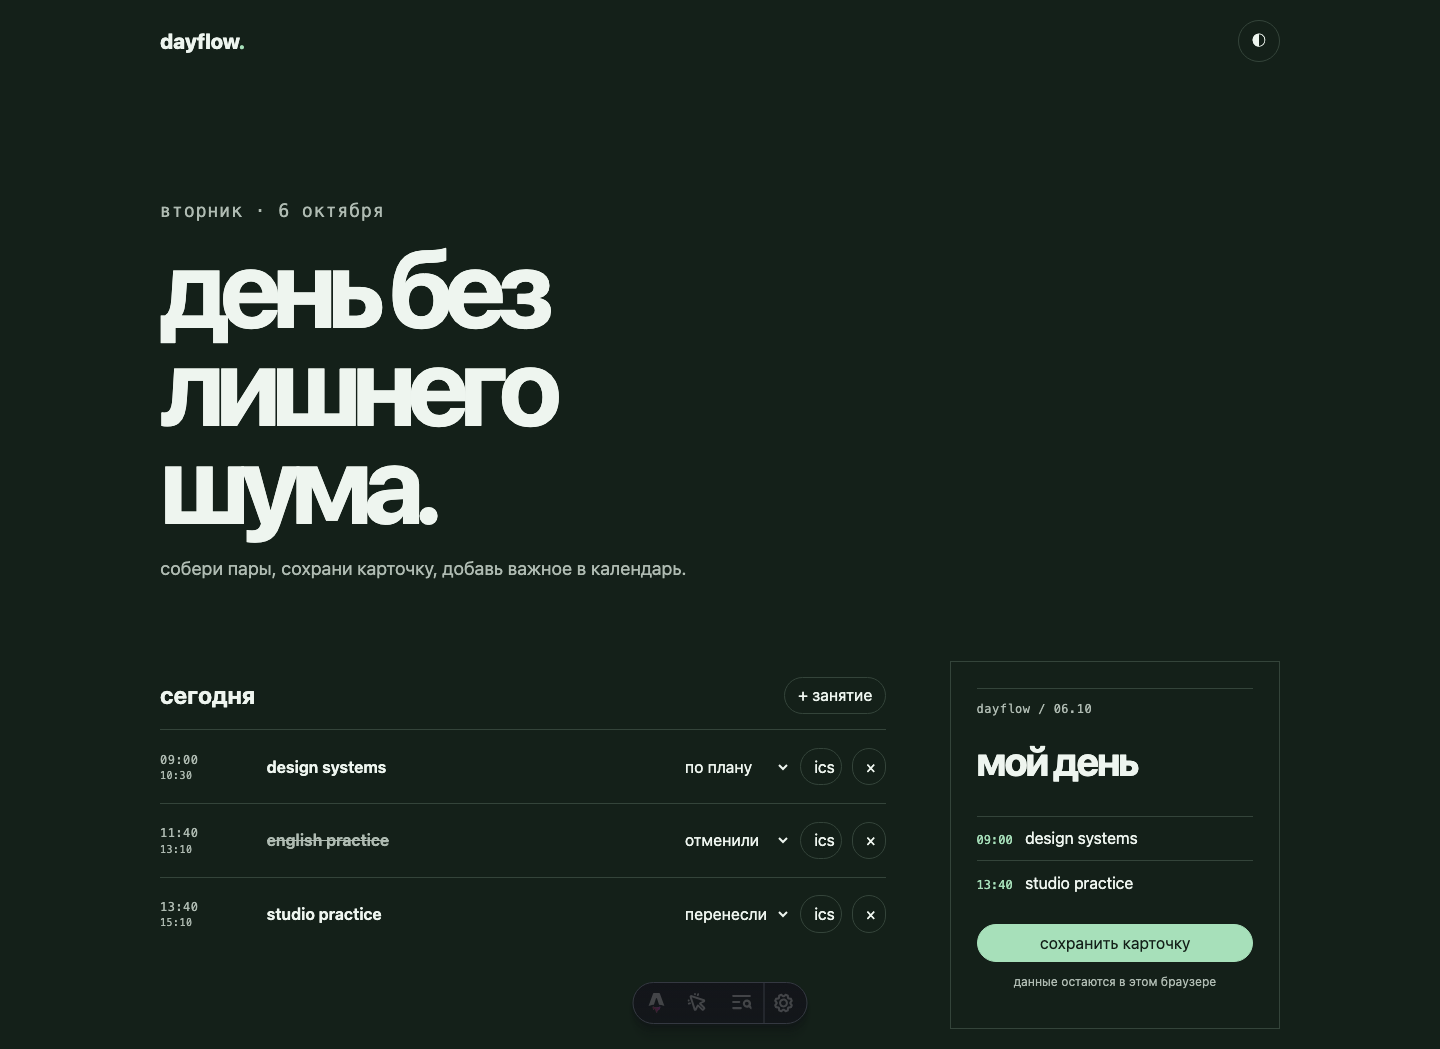
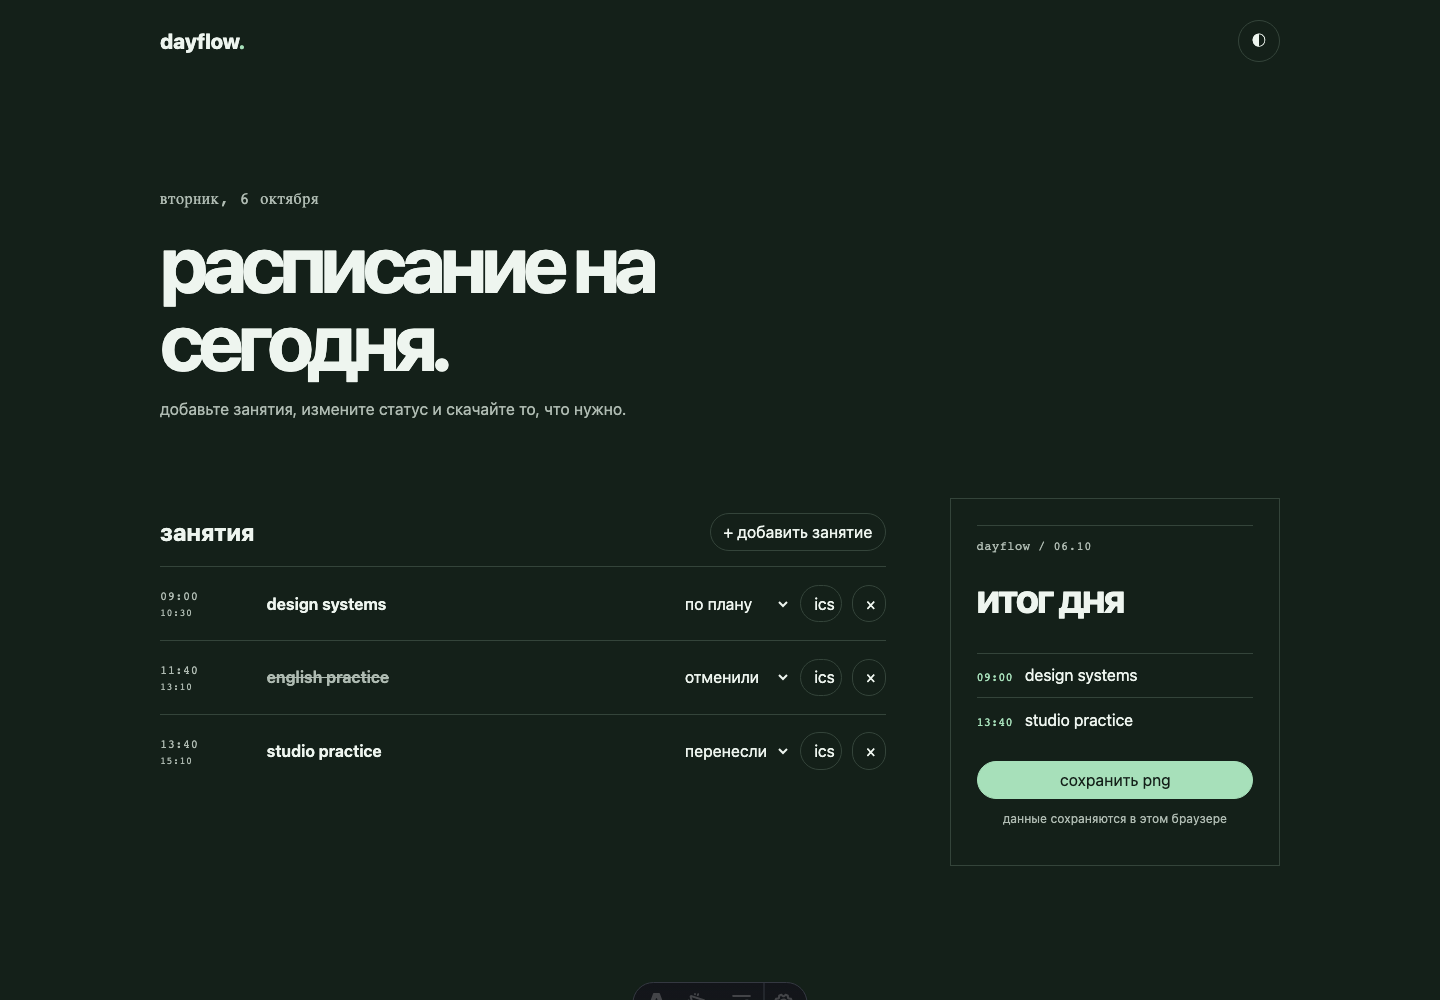
refine dayflow copy and visual hierarchy

diff --git a/src/styles/global.css b/src/styles/global.css
@@ -1,1 +1,1 @@
-:root{--bg:#f5f5f0;--ink:#17221e;--muted:#65716b;--line:#d4dbd5;--accent:#157a52;font-family:ui-sans-serif,system-ui,sans-serif}.dark{--bg:#142019;--ink:#eef5ef;--muted:#afbbb2;--line:#34443a;--accent:#a7e0ba}*{box-sizing:border-box}body{margin:0;background:var(--bg);color:var(--ink)}button,input,select{font:inherit;color:inherit}button{cursor:pointer;background:none;border:1px solid var(--line);border-radius:99px;padding:.55rem .8rem}.shell{max-width:1160px;margin:auto;padding:1.25rem}header{display:flex;justify-content:space-between;align-items:center}.wordmark{font-weight:800;font-size:1.3rem;color:inherit;text-decoration:none}.wordmark span{color:var(--accent)}.intro{padding:12vh 0 4rem;max-width:650px}.eyebrow,time{font:500 .75rem ui-monospace,monospace;color:var(--muted);letter-spacing:.04em}.intro h1{font-size:clamp(3rem,8vw,6.8rem);line-height:.9;letter-spacing:-.08em;margin:.5rem 0 1.5rem}.intro p{font-size:1.15rem;color:var(--muted);max-width:34rem}.layout{display:grid;grid-template-columns:1fr 330px;gap:4rem}.section-head{display:flex;justify-content:space-between;align-items:center}.lesson{display:grid;grid-template-columns:95px 1fr 110px 42px 34px;gap:.6rem;align-items:center;padding:1.1rem 0;border-top:1px solid var(--line)}time small{display:block;margin-top:.2rem}.lesson input,.lesson select{border:0;background:transparent;min-width:0}.lesson input{font-weight:650;font-size:1rem}.lesson.cancelled input{text-decoration:line-through;color:var(--muted)}.card{border:1px solid var(--line);padding:1.6rem;align-self:start;position:sticky;top:1rem}.card h2{font-size:2.5rem;letter-spacing:-.06em;margin:.5rem 0 2rem}.card p{border-top:1px solid var(--line);padding:.8rem 0;margin:0}.card b{font:500 .75rem ui-monospace,monospace;color:var(--accent);margin-right:.5rem}.card button{margin-top:1.2rem;background:var(--accent);color:var(--bg);border-color:var(--accent);width:100%}.hint{font-size:.75rem;color:var(--muted);text-align:center;border:0!important}@media(max-width:760px){.intro{padding:5rem 0 3rem}.layout{grid-template-columns:1fr;gap:2rem}.card{position:static}.lesson{grid-template-columns:70px 1fr 34px;gap:.5rem}.lesson select{grid-column:2}.lesson .ics{grid-column:3;grid-row:1}.lesson .remove{grid-column:3;grid-row:2}.intro h1{font-size:3.5rem}}
+:root{--bg:#f5f5f0;--ink:#17221e;--muted:#65716b;--line:#d4dbd5;--accent:#157a52;font-family:ui-sans-serif,system-ui,sans-serif}.dark{--bg:#142019;--ink:#eef5ef;--muted:#afbbb2;--line:#34443a;--accent:#a7e0ba}*{box-sizing:border-box}body{margin:0;background:var(--bg);color:var(--ink)}button,input,select{font:inherit;color:inherit}button{cursor:pointer;background:none;border:1px solid var(--line);border-radius:99px;padding:.55rem .8rem}.shell{max-width:1160px;margin:auto;padding:1.25rem}header{display:flex;justify-content:space-between;align-items:center}.wordmark{font-weight:800;font-size:1.3rem;color:inherit;text-decoration:none}.wordmark span{color:var(--accent)}.intro{padding:7rem 0 4rem;max-width:650px}.eyebrow,time{font:500 .75rem ui-monospace,monospace;color:var(--muted);letter-spacing:.04em}.intro h1{font-size:clamp(2.6rem,6vw,5rem);line-height:.98;letter-spacing:-.07em;margin:.75rem 0 1.25rem}.intro p{font-size:1rem;color:var(--muted);max-width:34rem}.layout{display:grid;grid-template-columns:1fr 330px;gap:4rem}.section-head{display:flex;justify-content:space-between;align-items:center}.lesson{display:grid;grid-template-columns:95px 1fr 110px 42px 34px;gap:.6rem;align-items:center;padding:1.1rem 0;border-top:1px solid var(--line)}time small{display:block;margin-top:.2rem}.lesson input,.lesson select{border:0;background:transparent;min-width:0}.lesson input{font-weight:650;font-size:1rem}.lesson.cancelled input{text-decoration:line-through;color:var(--muted)}.card{border:1px solid var(--line);padding:1.6rem;align-self:start;position:sticky;top:1rem}.card h2{font-size:2.5rem;letter-spacing:-.06em;margin:.5rem 0 2rem}.card p{border-top:1px solid var(--line);padding:.8rem 0;margin:0}.card b{font:500 .75rem ui-monospace,monospace;color:var(--accent);margin-right:.5rem}.card button{margin-top:1.2rem;background:var(--accent);color:var(--bg);border-color:var(--accent);width:100%}.hint{font-size:.75rem;color:var(--muted);text-align:center;border:0!important}@media(max-width:760px){.intro{padding:5rem 0 3rem}.layout{grid-template-columns:1fr;gap:2rem}.card{position:static}.lesson{grid-template-columns:70px 1fr 34px;gap:.5rem}.lesson select{grid-column:2}.lesson .ics{grid-column:3;grid-row:1}.lesson .remove{grid-column:3;grid-row:2}.intro h1{font-size:3.5rem}}

diff --git a/tests/browser-check.py b/tests/browser-check.py
@@ -8,7 +8,7 @@ with sync_playwright() as p:
     page = browser.new_page(viewport={"width": 1440, "height": 1000}, device_scale_factor=1)
     page.goto('http://127.0.0.1:4321', wait_until='networkidle')
     assert page.locator('.lesson').count() == 3
-    assert page.get_by_role('button', name='сохранить карточку').is_visible()
+    assert page.get_by_role('button', name='сохранить png').is_visible()
     page.screenshot(path=str(output / 'preview-light.png'), full_page=True)
     page.get_by_role('button', name='сменить тему').click()
     page.screenshot(path=str(output / 'preview-dark.png'), full_page=True)
